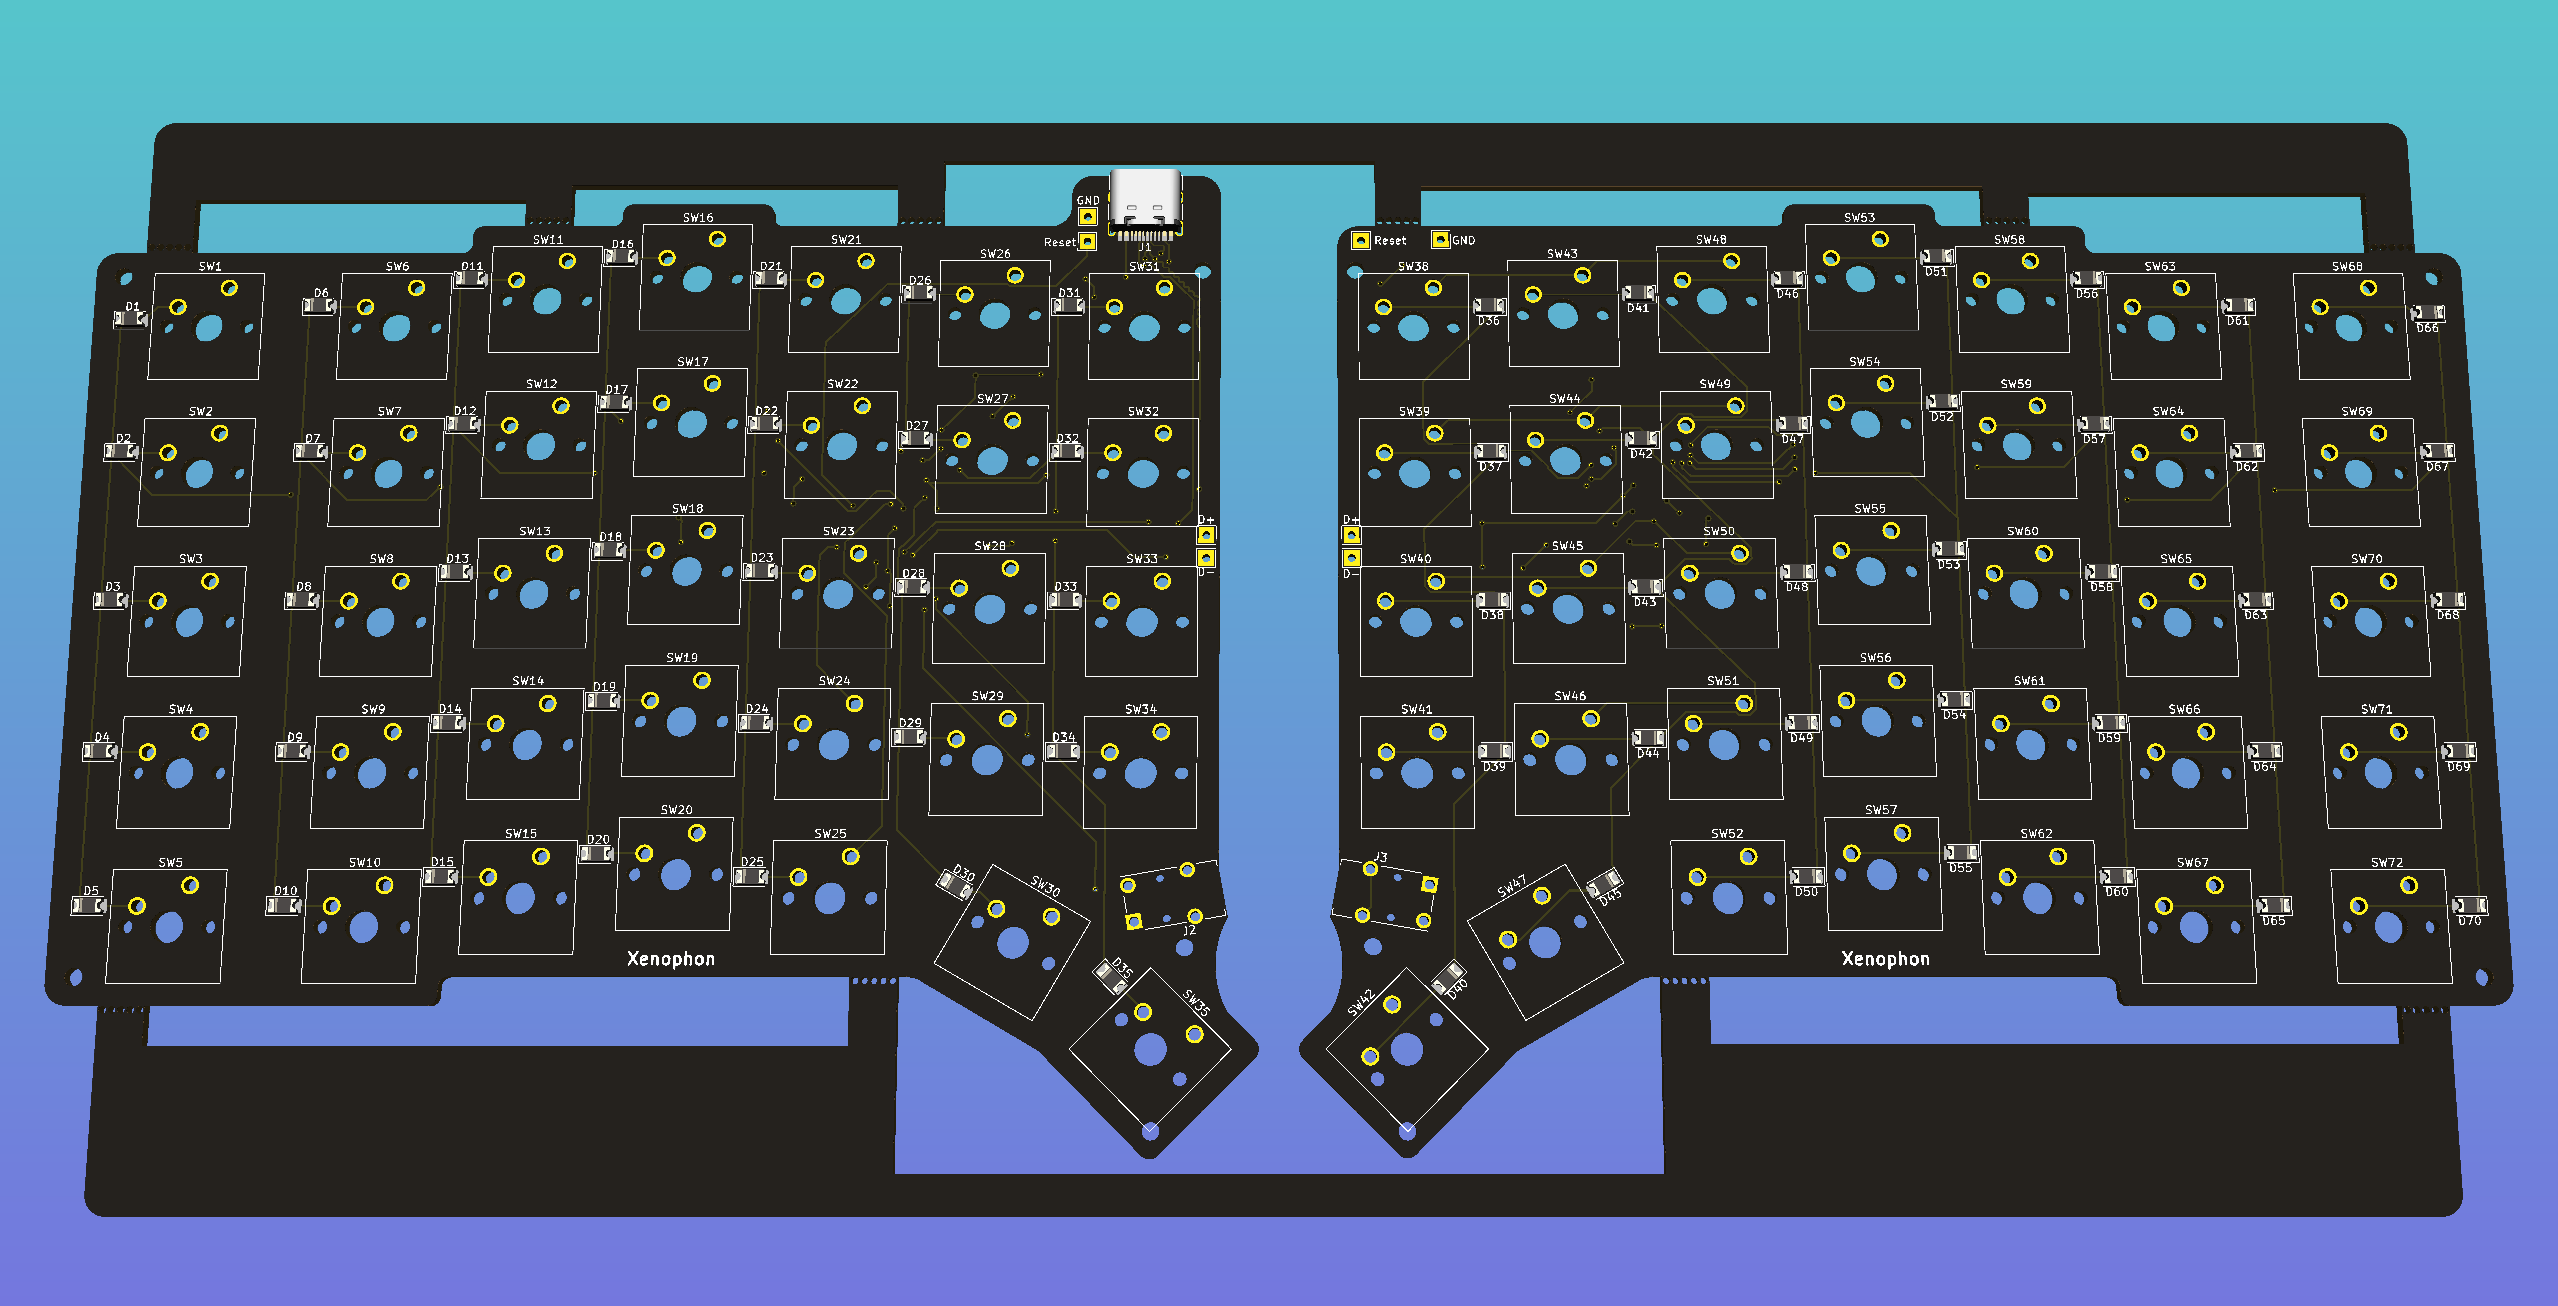
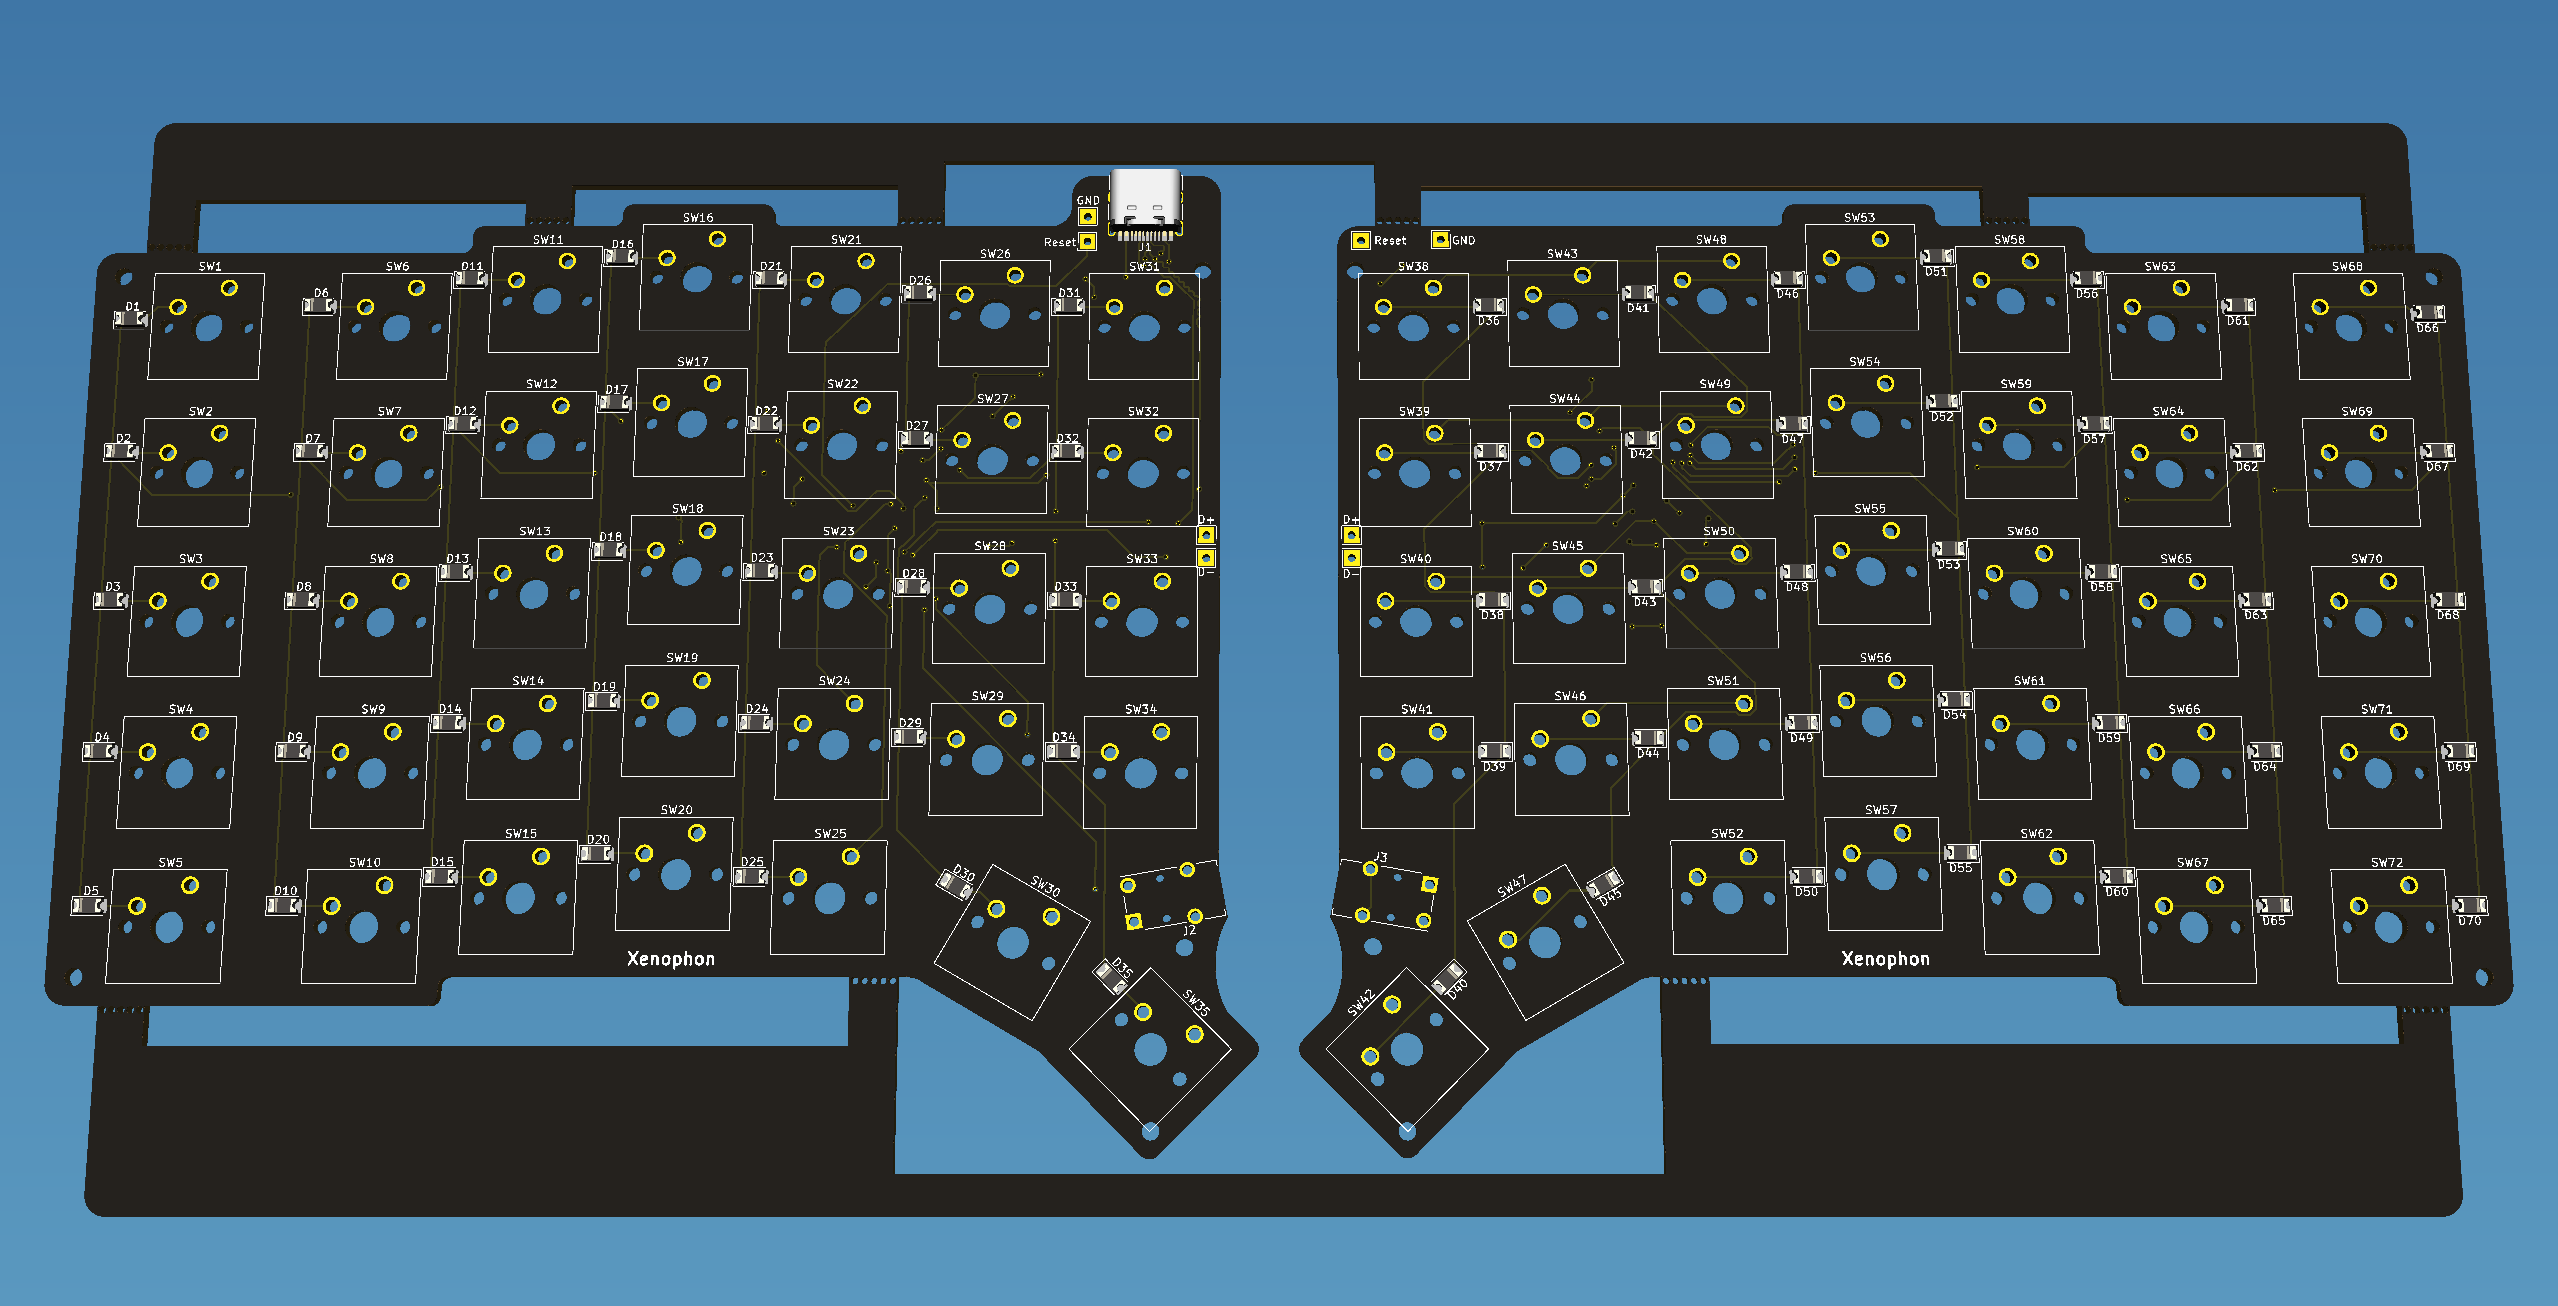
CSS refactoring

diff --git a/src/css/Scroll.css b/src/css/Scroll.css
@@ -2,7 +2,7 @@
 .container {
   position: relative;
   text-align: center;
-  background-color: #7477de;
+  background-color: var(--botColor);
 }
 
 .text-on-top-image {
@@ -22,13 +22,13 @@
 .text {
   text-align: center;
   font-family: Ubuntu Mono;
-  color: #7477de;
-  text-shadow: -1px -1px 0 #56c5cb, 1px -1px 0 #56c5cb, -1px 1px 0 #56c5cb, 1px 1px 0 #56c5cb;
+  color: var(--botColor);
+  text-shadow: -1px -1px 0 var(--upperColor), 1px -1px 0 var(--upperColor), -1px 1px 0 var(--upperColor), 1px 1px 0 var(--upperColor);
 }
 
 .slogan {
   text-align: center;
   font-family: 'Dongle';
-  color: #56c5cb;
-  text-shadow: -1px -1px 0 #7477de, 1px -1px 0 #7477de, -1px 1px 0 #7477de, 1px 1px 0 #7477de;
+  color: var(--upperColor);
+  text-shadow: -1px -1px 0 var(--botColor), 1px -1px 0 var(--botColor), -1px 1px 0 var(--botColor), 1px 1px 0 var(--botColor);
 }

diff --git a/src/css/Header.css b/src/css/Header.css
@@ -1,6 +1,6 @@
 .header {
   overflow: hidden;
-  background-color: #56c5cb;
+  background-color: var(--upperColor);
   padding: 10px 10px 0px 10px;
 }
 
@@ -36,12 +36,12 @@
 .text {
   text-align: center;
   font-family: Ubuntu Mono;
-  color: #7477de;
-  text-shadow: -1px -1px 0 #56c5cb, 1px -1px 0 #56c5cb, -1px 1px 0 #56c5cb, 1px 1px 0 #56c5cb;
+  color: var(--botColor);
+  text-shadow: -1px -1px 0 var(--upperColor), 1px -1px 0 var(--upperColor), -1px 1px 0 var(--upperColor), 1px 1px 0 var(--upperColor);
 }
 
 .foot {
-  background-color: #7477de;
+  background-color: var(--botColor);
   top: 0;
   bottom: 0;
   left: 0;

diff --git a/src/css/Contact.css b/src/css/Contact.css
@@ -1,6 +1,6 @@
 .contact {
   overflow: hidden;
-  background-color: #56c5cb;
+  background-color: var(--upperColor);
   padding: 10px 10px 0px 10px;
 }
 
@@ -13,11 +13,11 @@
 }
 
 .contact a:hover {
-  filter: invert(45%) sepia(62%) saturate(1592%) hue-rotate(215deg) brightness(95%) contrast(81%);
+  filter: invert(43%) sepia(16%) saturate(1499%) hue-rotate(166deg) brightness(95%) contrast(94%);
   transform: scale(1.2);
 }
 
 .contact a.active {
-  background-color: #56c5cb;
+  background-color: var(--upperColor);
   color: white;
 }

diff --git a/src/css/General.css b/src/css/General.css
@@ -1,8 +1,9 @@
 
+
 * {
   text-align: center;
   font-family: 'Dongle';
-  color: #7477de;
+  color: var(--botColor);
 }
 
 h1 {
@@ -17,8 +18,8 @@ p {
 }
 
 .info-box {
-  background-color: #56c5cb;
-  text-shadow: -1px -1px 0 #56c5cb, 1px -1px 0 #56c5cb, -1px 1px 0 #56c5cb, 1px 1px 0 #56c5cb;
+  background-color: var(--upperColor);
+  text-shadow: -1px -1px 0 var(--upperColor), 1px -1px 0 24var(--upperColor)6EB9, -1px 1px 0 var(--upperColor), 1px 1px 0 var(--upperColor);
   border-radius: 20px;
   width: 90%;
   margin: 0 auto;

diff --git a/src/css/Info.css b/src/css/Info.css
@@ -2,6 +2,10 @@
 .info-text {
   text-align: center;
   font-family: 'Dongle';
-  color: #56c5cb;
-  text-shadow: -1px -1px 0 #7477de, 1px -1px 0 #7477de, -1px 1px 0 #7477de, 1px 1px 0 #7477de;
+  color: var(--upperColor);
+  text-shadow: -1px -1px 0 var(--botColor), 1px -1px 0 var(--botColor), -1px 1px 0 var(--botColor), 1px 1px 0 var(--botColor);
+}
+
+.thisText {
+  color: #eac435;
 }

diff --git a/src/content/Info.js b/src/content/Info.js
@@ -8,7 +8,7 @@ function Info (props) {
   return (
     <div>
       <div className='info-box'>
-        <h2 style={{fontSize: props.width/14}} >Features a Swedish key layout</h2>
+        <h2 className='thisText' style={{fontSize: props.width/14}} >Features a Swedish key layout</h2>
       </div>
       <div className='container' >
         <div className='fixed'>

diff --git a/public/index.html b/public/index.html
@@ -2,6 +2,7 @@
 <html lang="en">
   <head>
     <meta charset="utf-8" />
+    <link href="../src/css/variables.css" rel="stylesheet">
     <link rel="icon" href="%PUBLIC_URL%/favicon.ico" />
     <link rel="stylesheet" type="text/css" href="//fonts.googleapis.com/css?family=Ubuntu+Mono" />
     <link rel="preconnect" href="https://fonts.googleapis.com">

diff --git a/src/css/App.css b/src/css/App.css
@@ -2,6 +2,6 @@
   text-align: center;
   color: white;
   font-family: 'Lora', serif;
-  background-color: #7477de;
+  background-color: var(--botColor);
   text-shadow: -1px 0 black, 0 1px black, 1px 0 black, 0 -1px black;
 }

diff --git a/src/index.js b/src/index.js
@@ -1,7 +1,9 @@
 import React from 'react';
 import ReactDOM from 'react-dom';
 import App from './App';
+import './css/variables.css'
 import './css/index.css';
+
 
 ReactDOM.render(
   <React.StrictMode>

diff --git a/src/css/index.css b/src/css/index.css
@@ -1,4 +1,4 @@
 body {
   margin: 0;
-  background-color: #7477de;
+  background-color: var(--botColor);
 }

diff --git a/src/css/variables.css b/src/css/variables.css
@@ -1,0 +1,5 @@
+:root {
+  --upperColor: #3F76A6;
+  --botDark: #463f3a;
+  --botColor: #5A98BF;
+}
